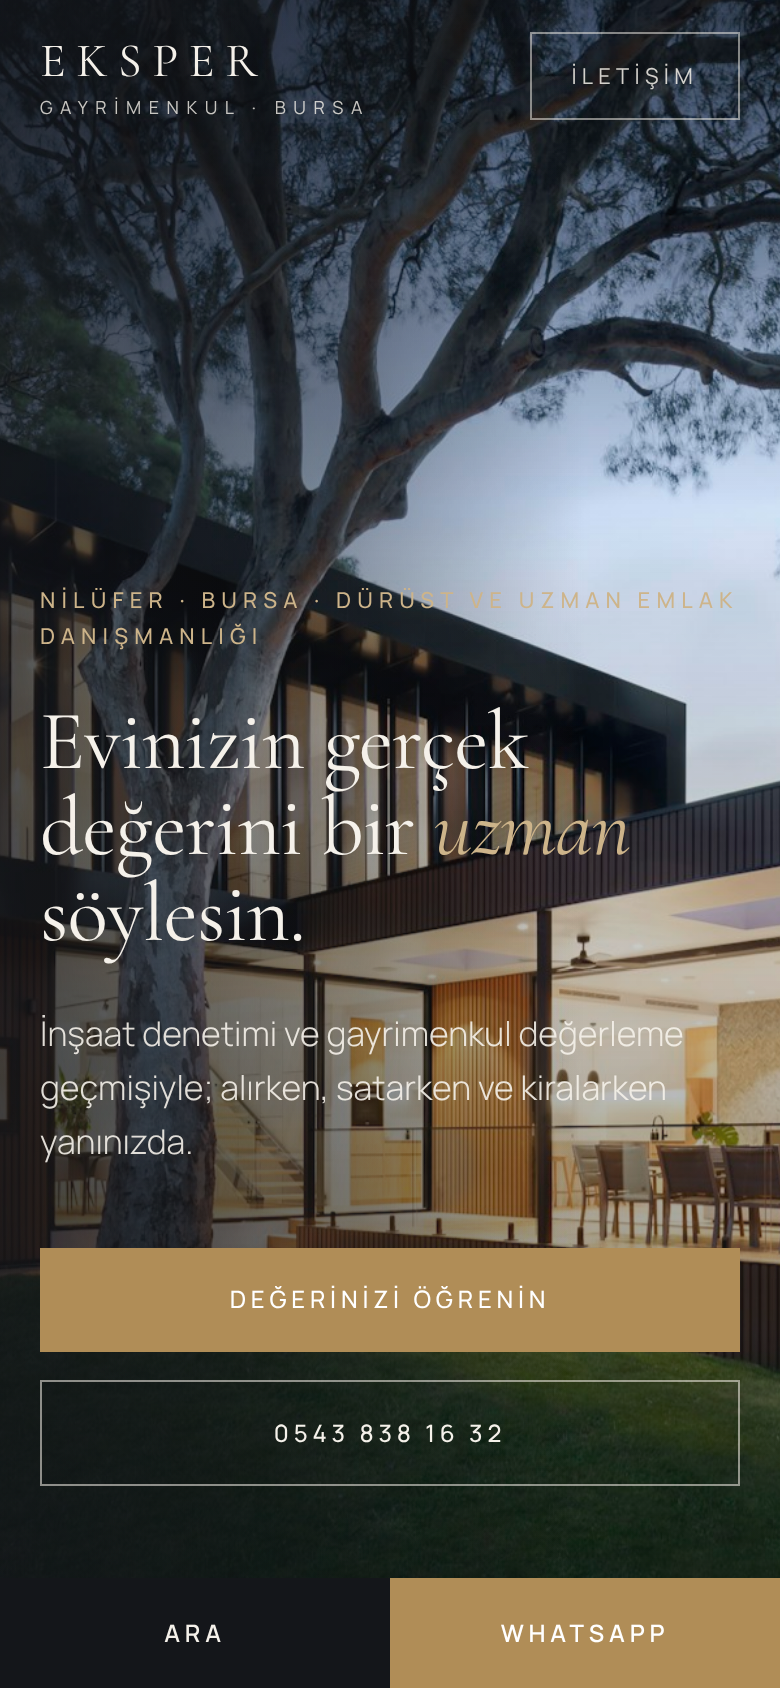
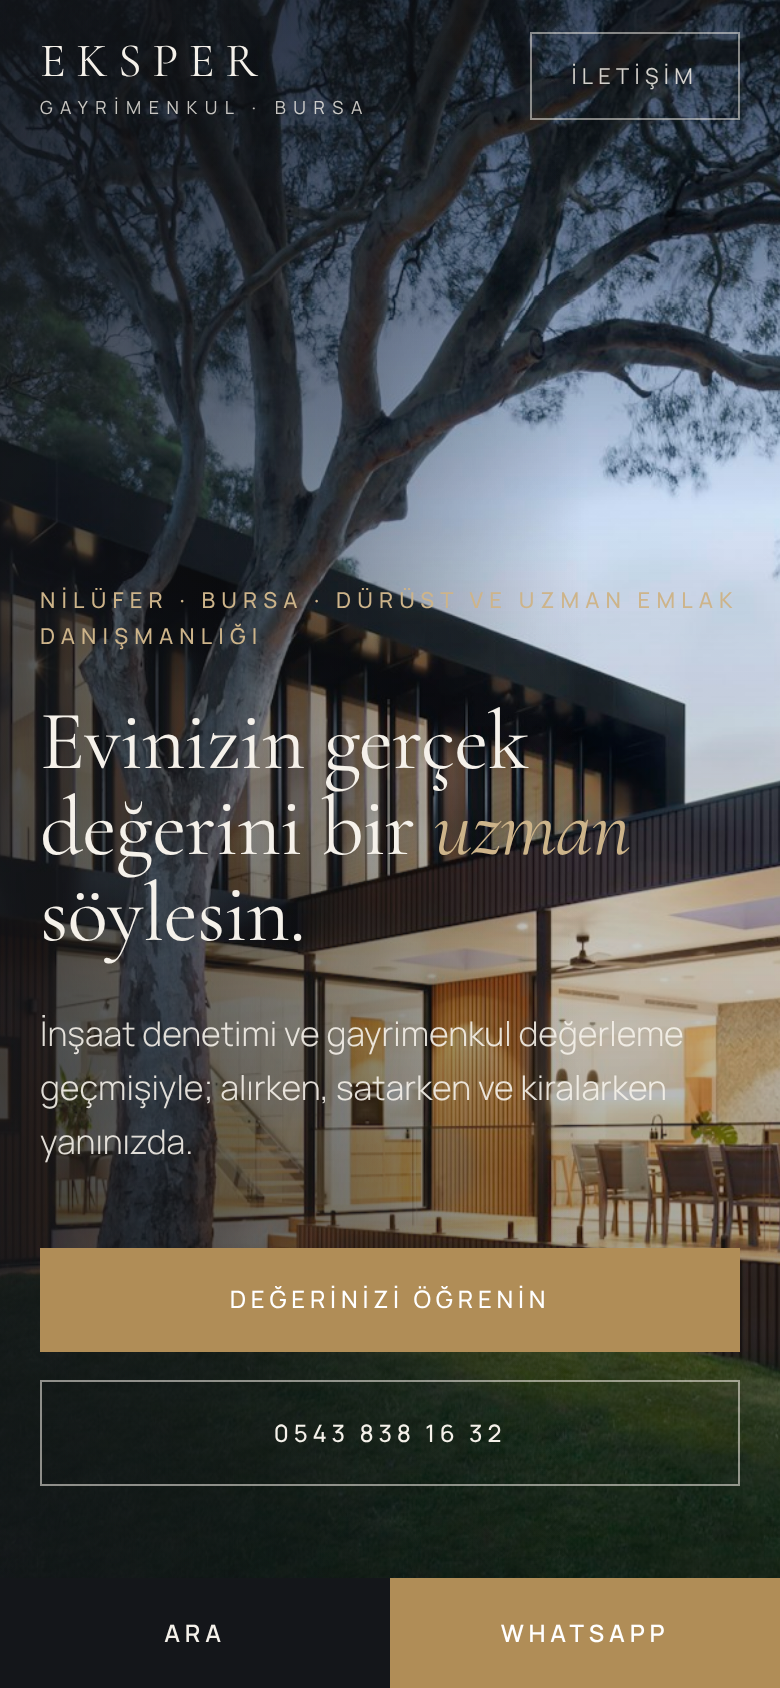
Hizmetler: fotoğraflı zikzak satırlar; Uzman gözü: tam genişlik görsel şeritler
Claude-Session: https://claude.ai/code/session_01RpRroQoF4BRD7ftTEzAbsX

diff --git a/index.html b/index.html
@@ -86,29 +86,38 @@
   .quote { font-family: var(--serif); font-style: italic; font-size: 26px; line-height: 1.35; margin-top: 40px; padding-left: 24px; border-left: 2px solid var(--gold); max-width: 30ch; }
   .sign { font-family: var(--sans); font-size: 11px; letter-spacing: .28em; text-transform: uppercase; margin-top: 18px; padding-left: 26px; color: var(--muted); }
 
-  /* Services */
-  .services .grid3 { display: grid; grid-template-columns: repeat(2, 1fr); border-top: 1px solid #d9d1c3; }
-  .svc { padding: 40px 40px 32px 0; border-bottom: 1px solid #d9d1c3; }
-  .svc:nth-child(odd) { border-right: 1px solid #d9d1c3; }
-  .svc:nth-child(even) { padding-left: 40px; }
-  .svc .n { font-family: var(--serif); color: var(--gold); font-size: 20px; }
-  .svc h3 { font-family: var(--serif); font-weight: 400; font-size: 30px; line-height: 1.15; margin: 18px 0 14px; }
-  .svc p { color: #45423d; font-size: 15px; }
-  .svc ul { margin-top: 18px; }
-  .svc li { list-style: none; font-size: 14px; padding: 9px 0; border-top: 1px solid #e3dccf; }
+  /* Services: split rows (Rouse-style) */
+  .services { padding-bottom: 0; }
+  .services .sec-head { margin-bottom: 72px; }
+  .split { display: grid; grid-template-columns: 1fr 1fr; min-height: 78vh; }
+  .split .media { position: relative; overflow: hidden; }
+  .split .media img { position: absolute; inset: 0; width: 100%; height: 100%; object-fit: cover; transition: transform 1.6s cubic-bezier(.2,.7,.2,1); }
+  .split:hover .media img { transform: scale(1.03); }
+  .split .txt { display: flex; flex-direction: column; justify-content: center; padding: 96px clamp(32px, 7vw, 120px); }
+  .split.rev .media { order: 2; }
+  .split .n { font-family: var(--serif); color: var(--gold); font-size: 20px; }
+  .split h3 { font-family: var(--serif); font-weight: 400; font-size: clamp(34px, 3.4vw, 48px); line-height: 1.08; margin: 16px 0 18px; }
+  .split p { color: #45423d; font-size: 16px; max-width: 46ch; }
+  .split ul { margin-top: 28px; max-width: 46ch; }
+  .split li { list-style: none; font-size: 15px; padding: 12px 0; border-top: 1px solid #ddd5c7; display: flex; gap: 14px; }
+  .split li::before { content: "—"; color: var(--gold); }
+  .split:nth-of-type(even) { background: var(--cream-2); }
 
-  /* Expert eye */
-  .eye { background: var(--cream-2); }
-  .eye .wrap { display: grid; grid-template-columns: 5fr 7fr; gap: 88px; align-items: start; }
-  .eye .photo { aspect-ratio: 3/4; overflow: hidden; position: sticky; top: 40px; }
-  .eye .photo img { width: 100%; height: 100%; object-fit: cover; }
-  .eye .eyebrow { color: var(--gold); }
-  .eye h2 { margin: 14px 0 20px; }
-  .eye .lead { color: #45423d; max-width: 52ch; }
-  .checks { margin-top: 44px; display: grid; grid-template-columns: 1fr 1fr; gap: 0 40px; }
-  .checks div { padding: 22px 0; border-top: 1px solid #d3cabb; }
-  .checks b { display: block; font-family: var(--serif); font-weight: 500; font-size: 22px; margin-bottom: 6px; }
-  .checks span { font-size: 14px; color: #5a5650; }
+  /* Expert eye: cinematic bands */
+  .eye { padding: 0; background: var(--ink); color: var(--cream); }
+  .eye-head { padding: 128px 0 72px; }
+  .eye-head .eyebrow { color: var(--gold-soft); }
+  .eye-head h2 { margin: 14px 0 20px; }
+  .eye-head h2 em { color: var(--gold-soft); }
+  .eye-head p { max-width: 54ch; opacity: .75; }
+  .band { position: relative; min-height: 64vh; display: flex; align-items: flex-end; overflow: hidden; border-top: 1px solid rgba(245,241,234,.08); }
+  .band img { position: absolute; inset: 0; width: 100%; height: 100%; object-fit: cover; transform: scale(1.08); transition: transform 2.4s cubic-bezier(.2,.7,.2,1); }
+  .band.in img { transform: scale(1); }
+  .band::after { content: ""; position: absolute; inset: 0; background: linear-gradient(90deg, rgba(20,22,26,.92) 0%, rgba(20,22,26,.7) 45%, rgba(20,22,26,.3) 100%); }
+  .band .wrap { position: relative; z-index: 1; width: 100%; padding-top: 80px; padding-bottom: 80px; display: grid; grid-template-columns: 120px 1fr; gap: 24px; align-items: end; }
+  .band .n { font-family: var(--serif); font-size: 64px; line-height: 1; color: var(--gold-soft); opacity: .9; }
+  .band h3 { font-family: var(--serif); font-weight: 400; font-size: clamp(36px, 4.6vw, 68px); line-height: 1.02; }
+  .band p { margin-top: 16px; max-width: 48ch; font-size: 17px; font-weight: 300; opacity: .88; }
 
   /* Guides */
   .guides { background: var(--cream); }
@@ -175,11 +184,15 @@
     .about .wrap, .valuation .wrap { grid-template-columns: 1fr; gap: 56px; }
     .portrait { max-width: 420px; }
     .timeline li { grid-template-columns: 1fr; gap: 2px; }
-    .services .grid3 { grid-template-columns: 1fr; }
-    .svc, .svc:nth-child(even) { padding: 32px 0 24px; border-right: 0; }
-    .eye .wrap { grid-template-columns: 1fr; gap: 48px; }
-    .eye .photo { position: static; aspect-ratio: 4/3; }
-    .checks { grid-template-columns: 1fr; }
+    .split { grid-template-columns: 1fr; min-height: 0; }
+    .split .media { aspect-ratio: 4/3; }
+    .split.rev .media { order: 0; }
+    .split .txt { padding: 40px 20px 56px; }
+    .eye-head { padding: 88px 0 48px; }
+    .band { min-height: 72vh; }
+    .band .wrap { grid-template-columns: 1fr; gap: 8px; padding-top: 56px; padding-bottom: 56px; }
+    .band .n { font-size: 44px; }
+    .band::after { background: linear-gradient(180deg, rgba(20,22,26,.25) 0%, rgba(20,22,26,.9) 75%); }
     .gl { grid-template-columns: 1fr; }
     .portfolio { padding: 112px 0; }
     .map { aspect-ratio: 4/3; }
@@ -260,49 +273,46 @@
     <div class="sec-head">
       <div><div class="eyebrow">Hizmetler</div><h2>Her adımda <em>danışmanınız</em></h2></div>
     </div>
-    <div class="grid3">
-      <div class="svc rv">
-        <div class="n">01</div>
-        <h3>Satanlar için</h3>
-        <p>Gayrimenkulünüzün en kısa zamanda ve değerinde satılması için.</p>
-        <ul><li>Emsalleri inceleyerek fiyat araştırması</li><li>İç ve dış fotoğraf çekimi, ilan sitelerinde yayın ve takip</li><li>Teknik inceleme ile az masrafla değer artırma önerileri</li><li>Alıcı tekliflerinin değerlendirilmesi</li></ul>
-      </div>
-      <div class="svc rv">
-        <div class="n">02</div>
-        <h3>Alanlar için</h3>
-        <p>Siz ve aileniz için en doğru kararı vermeniz için.</p>
-        <ul><li>İhtiyaçlarınıza uygun gayrimenkul araştırması</li><li>Depreme dayanıklılık ve teknik inceleme</li><li>Kredi ve faiz araştırması</li><li>Satıcıyla bire bir görüşme ve teklif</li></ul>
-      </div>
-      <div class="svc rv">
-        <div class="n">03</div>
-        <h3>Kiralama ve mülk yönetimi</h3>
-        <p>Konut, işyeri, ofis ve arazide kiraya veren ve kiracıya danışmanlık.</p>
-        <ul><li>Kiralama aracılık hizmetleri</li><li>Kiralık ofis ve işyeri danışmanlığı</li><li>Vergi, harç, abonelik ve sigorta işlemlerinin takibi</li></ul>
-      </div>
-      <div class="svc rv">
-        <div class="n">04</div>
-        <h3>Değerleme ve yatırım</h3>
-        <p>Doğru fiyat ve doğru yatırım kararı için.</p>
-        <ul><li>Gerçek satış ve kira değerinin tespiti</li><li>En uygun bölge, mülk tipi ve fiyat için yatırım danışmanlığı</li></ul>
-      </div>
-    </div>
+  </div>
+  <div class="split">
+    <div class="media"><img src="https://images.unsplash.com/photo-1600585154526-990dced4db0d?w=1600&q=75&fm=jpg" alt="" loading="lazy"></div>
+    <div class="txt rv"><div class="n">01</div><h3>Satanlar için</h3><p>Gayrimenkulünüzün en kısa zamanda ve değerinde satılması için.</p><ul><li>Emsalleri inceleyerek fiyat araştırması</li><li>İç ve dış fotoğraf çekimi, ilan sitelerinde yayın ve takip</li><li>Teknik inceleme ile az masrafla değer artırma önerileri</li><li>Alıcı tekliflerinin değerlendirilmesi</li></ul></div>
+  </div>
+  <div class="split rev">
+    <div class="media"><img src="https://images.unsplash.com/photo-1618221195710-dd6b41faaea6?w=1600&q=75&fm=jpg" alt="" loading="lazy"></div>
+    <div class="txt rv"><div class="n">02</div><h3>Alanlar için</h3><p>Siz ve aileniz için en doğru kararı vermeniz için.</p><ul><li>İhtiyaçlarınıza uygun gayrimenkul araştırması</li><li>Depreme dayanıklılık ve teknik inceleme</li><li>Kredi ve faiz araştırması</li><li>Satıcıyla bire bir görüşme ve teklif</li></ul></div>
+  </div>
+  <div class="split">
+    <div class="media"><img src="https://images.unsplash.com/photo-1497366811353-6870744d04b2?w=1600&q=75&fm=jpg" alt="" loading="lazy"></div>
+    <div class="txt rv"><div class="n">03</div><h3>Kiralama ve mülk yönetimi</h3><p>Konut, işyeri, ofis ve arazide kiraya veren ve kiracıya danışmanlık.</p><ul><li>Kiralama aracılık hizmetleri</li><li>Kiralık ofis ve işyeri danışmanlığı</li><li>Vergi, harç, abonelik ve sigorta işlemlerinin takibi</li></ul></div>
+  </div>
+  <div class="split rev">
+    <div class="media"><img src="https://images.unsplash.com/photo-1460317442991-0ec209397118?w=1600&q=75&fm=jpg" alt="" loading="lazy"></div>
+    <div class="txt rv"><div class="n">04</div><h3>Değerleme ve yatırım</h3><p>Doğru fiyat ve doğru yatırım kararı için.</p><ul><li>Gerçek satış ve kira değerinin tespiti</li><li>En uygun bölge, mülk tipi ve fiyat için yatırım danışmanlığı</li></ul></div>
   </div>
 </section>
 
 <section class="eye">
-  <div class="wrap">
-    <div class="photo rv"><img src="https://images.unsplash.com/photo-1600607687939-ce8a6c25118c?w=1200&q=75&fm=jpg" alt="" loading="lazy"></div>
-    <div class="rv">
-      <div class="eyebrow">Uzman gözü</div>
-      <h2>Bir eve <em>uzman</em> gözüyle bakmak</h2>
-      <p class="lead">Uzun yıllar edinilen gayrimenkul inceleme ve değerleme tecrübesiyle, alacağınız evi yapısıyla birlikte değerlendiriyoruz.</p>
-      <div class="checks">
-        <div><b>Depreme dayanıklılık</b><span>Alacağınız gayrimenkulün depreme karşı dayanıklılığını araştırıyoruz.</span></div>
-        <div><b>Malzeme kalitesi</b><span>İnşaatta kullanılan malzemenin TSE standartlarına uyup uymadığına bakıyoruz.</span></div>
-        <div><b>Teknik inceleme</b><span>Alacağınız gayrimenkulü teknik olarak inceliyoruz.</span></div>
-        <div><b>Gerçek değer</b><span>Emsalleri inceleyerek doğru fiyatı araştırıyoruz.</span></div>
-      </div>
-    </div>
+  <div class="wrap eye-head rv">
+    <div class="eyebrow">Uzman gözü</div>
+    <h2>Bir eve <em>uzman</em> gözüyle bakmak</h2>
+    <p>Uzun yıllar edinilen gayrimenkul inceleme ve değerleme tecrübesiyle, alacağınız evi yapısıyla birlikte değerlendiriyoruz.</p>
+  </div>
+  <div class="band rv">
+    <img src="https://images.unsplash.com/photo-1504307651254-35680f356dfd?w=2000&q=75&fm=jpg" alt="" loading="lazy">
+    <div class="wrap"><div class="n">01</div><div><h3>Depreme dayanıklılık</h3><p>Alacağınız gayrimenkulün depreme karşı dayanıklılığını araştırıyoruz.</p></div></div>
+  </div>
+  <div class="band rv">
+    <img src="https://images.unsplash.com/photo-1600566752355-35792bedcfea?w=2000&q=75&fm=jpg" alt="" loading="lazy">
+    <div class="wrap"><div class="n">02</div><div><h3>Malzeme kalitesi</h3><p>İnşaatta kullanılan malzemenin TSE standartlarına uyup uymadığına bakıyoruz.</p></div></div>
+  </div>
+  <div class="band rv">
+    <img src="https://images.unsplash.com/photo-1503387762-592deb58ef4e?w=2000&q=75&fm=jpg" alt="" loading="lazy">
+    <div class="wrap"><div class="n">03</div><div><h3>Teknik inceleme</h3><p>Alacağınız gayrimenkulü teknik olarak inceliyoruz.</p></div></div>
+  </div>
+  <div class="band rv">
+    <img src="https://images.unsplash.com/photo-1431576901776-e539bd916ba2?w=2000&q=75&fm=jpg" alt="" loading="lazy">
+    <div class="wrap"><div class="n">04</div><div><h3>Gerçek değer</h3><p>Emsalleri inceleyerek doğru fiyatı araştırıyoruz.</p></div></div>
   </div>
 </section>
 
